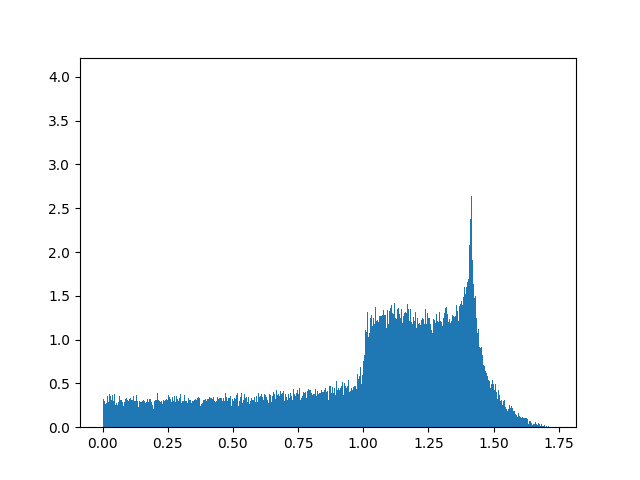
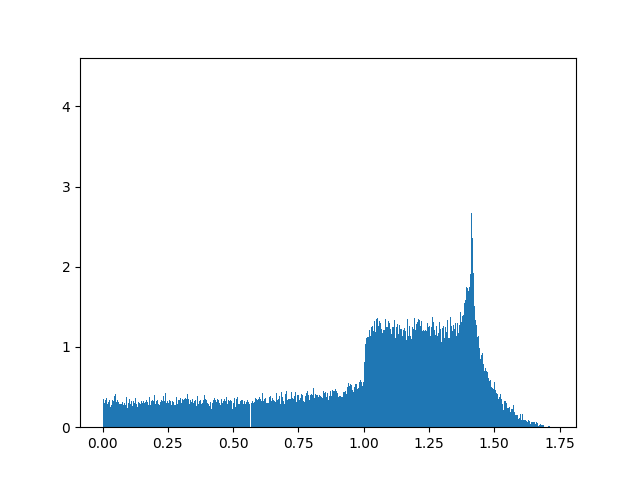
clean 4 shapes polyhedrons, start of report

diff --git a/mesh.py b/mesh.py
@@ -44,11 +44,12 @@ class polyhedron:
         y = random.uniform(y_min, y_max)
         return y
     
-    def random_chord_length(self) :
+    def random_chord_length(self, y = None): 
         """
         Returns the length of a random chord of the polyhedron
         """
-        y = self.random_y()
+        if y is None:
+            y = self.random_y()
         
         over_y = []
         under_y = []
@@ -69,19 +70,24 @@ class polyhedron:
 
         return max(intersections_x) - min(intersections_x)
     
-    def plot_proj(self, name) :
+    def plot_proj(self, name, chord_y = None) :
         """
         plots the projected points in MeshPlots/projections/name
 
         Args :
         name : name of the file
+        chord_y : y coordinate of the chord to plot. If None, no chord is plotted
         """
         plt.figure()
         plt.plot(*zip(*self.projected_vertices), 'o')
-        for i in range(4):
-            for j in range(i+1,4):
+        n = len(self.projected_vertices)
+        for i in range(n):
+            for j in range(i+1,n):
                 plt.plot(*zip(self.projected_vertices[i],self.projected_vertices[j]), color='b')
+        if chord_y is not None :
+            plt.axhline(y=chord_y, color='r')
         plt.savefig("MeshPlots/projections/"+name)
+        plt.close()
 
     def plot_3d(self, name) :
         """
@@ -92,11 +98,13 @@ class polyhedron:
         """
         fig = plt.figure()
         ax = fig.add_subplot(111, projection='3d')
-        for i in range(4):
-            for j in range(i+1,4):
+        n = len(self.vertices)
+        for i in range(n):
+            for j in range(i+1,n):
                 ax.plot(*zip(self.vertices[i],self.vertices[j]), color='b')
         ax.scatter(*zip(*self.vertices))
         plt.savefig("MeshPlots/3D/"+name)
+        plt.close()
     
 class regular_tetrahedron(polyhedron) :
     """
@@ -111,7 +119,7 @@ class regular_tetrahedron(polyhedron) :
         self.H = r*np.sqrt(6)/3 #height of the tetrahedron
         self.b = r/(2*np.sqrt(3)) #distance from the center to the center of a face
         self.a = r/np.sqrt(3) #distance from the center to a vertex
-        self.vertices = np.array([(-1/2,-self.b,0), (1/2,-self.b,0), (0,self.a,0), (0,0,self.H)])
+        self.vertices = np.array([(-self.r/2,-self.b,0), (self.r/2,-self.b,0), (0,self.a,0), (0,0,self.H)])
         self.projected_vertices = np.array(self.vertices[:,:2])
 
     def check_edges_length(self):
@@ -131,8 +139,37 @@ class cube(polyhedron) :
     """
     def __init__(self, r = 1):
         self.r = r
-        self.vertices = np.array([(x,y,z) for x in [-1/2,1/2] for y in [-1/2,1/2] for z in [-1/2,1/2]])
+        self.vertices = r*np.array([(x,y,z) for x in [-1/2,1/2] for y in [-1/2,1/2] for z in [-1/2,1/2]])
         self.projected_vertices = np.array([(x,y) for x,y,z in self.vertices])
+
+class regular_pyramid(polyhedron) :
+    """
+    An element of this class represents a regular pyramid (base = square, summit above the center of the square, all edges of the same length), using the polyhedron class.
+
+    Args :
+    r : length of the edges of the pyramid
+    """
+    def __init__(self, r = 1):
+        self.r = r
+        self.h = r*np.sqrt(2)/2 #height of the pyramid
+        self.normalized_h = np.sqrt(2)/2 #height of the pyramid, with r = 1
+        self.vertices = r*np.array([(-1/2,-1/2,0), (1/2,-1/2,0), (1/2,1/2,0), (-1/2,1/2,0), (0,0,self.normalized_h)])
+        self.projected_vertices = np.array(self.vertices[:,:2])
+
+class regular_triangular_prism(polyhedron) :
+    """
+    An element of this class represents a regular triangular prism (equilateral triangle base, all edges of the same length) (basically, a tent), using the polyhedron class.
+
+    Args :
+    r : length of the edges of the prism
+    """
+    def __init__(self, r = 1):
+        self.r = r
+        self.h = r*np.sqrt(3)/2 #height of the prism
+        self.normalized_h = np.sqrt(3)/2 #height of the prism, with r = 1
+        self.vertices = r*np.array([(-1/2,-1/2,0), (1/2,-1/2,0), (1/2,1/2,0), (-1/2,1/2,0), (-1/2,0,self.normalized_h), (1/2,0,self.normalized_h)])
+        self.projected_vertices = np.array(self.vertices[:,:2])
+
 
 def random_uniform_rotation_matrix() :
     return Rotation.random().as_matrix()
@@ -148,6 +185,7 @@ def plot_cumulative_cld_hist(chords, name, bins=100) :
     plt.figure()
     plt.hist(chords, bins=bins, cumulative=True, density=True, histtype='step')
     plt.savefig("MeshPlots/clds/"+name)
+    plt.close()
 
 def plot_cld_hist(chords, name, bins=100) :
     """
@@ -159,6 +197,7 @@ def plot_cld_hist(chords, name, bins=100) :
     plt.figure()
     plt.hist(chords, bins=bins, density=True)
     plt.savefig("MeshPlots/clds/"+name)
+    plt.close()
 
 def get_regular_tetrahedron_list_of_chords(r = 1, N = 10000) :
     """
@@ -192,15 +231,63 @@ def get_cube_list_of_chords(r = 1, N = 10000) :
         list_of_chords.append(cube_.random_chord_length())
     return list_of_chords
 
-def get_tetrahedron_cld() :
-    chords = get_regular_tetrahedron_list_of_chords(N = 524288)
-    plot_cld_hist(chords, 'cld_tetra', bins=4096)
-    plot_cumulative_cld_hist(chords,'cumulative_cld_tetra', bins=4096)
+def get_regular_pyramid_list_of_chords(r = 1, N = 10000) :
+    """
+    Returns the list of N chord lengths of a regular pyramid with edges of length r
 
-def get_cube_cld() :
-    chords = get_cube_list_of_chords(N = 524288)
-    plot_cld_hist(chords, 'cld_cube', bins=4096)
-    plot_cumulative_cld_hist(chords,'cumulative_cld_cube', bins=4096)
+    Args :
+    r : length of the edges of the pyramid
+    N : number of chords
+    """
+    pyramid = regular_pyramid(r)
+    list_of_chords = []
+    for i in range(N) :
+        Gamma = random_uniform_rotation_matrix()
+        pyramid.rotate(Gamma)
+        list_of_chords.append(pyramid.random_chord_length())
+    return list_of_chords
+
+def get_regular_triangular_prism_list_of_chords(r = 1, N = 10000) :
+    """
+    Returns the list of N chord lengths of a regular triangular prism with edges of length r
+
+    Args :
+    r : length of the edges of the prism
+    N : number of chords
+    """
+    prism = regular_triangular_prism(r)
+    list_of_chords = []
+    for i in range(N) :
+        Gamma = random_uniform_rotation_matrix()
+        prism.rotate(Gamma)
+        list_of_chords.append(prism.random_chord_length())
+    return list_of_chords
+
+def get_tetrahedron_cld(N = 524288, bins=4096) :
+    chords = get_regular_tetrahedron_list_of_chords(N = N)
+    plot_cld_hist(chords, 'cld_tetra', bins=bins)
+    plot_cumulative_cld_hist(chords,'cumulative_cld_tetra', bins=bins)
+
+def get_cube_cld(N = 524288, bins=4096) :
+    chords = get_cube_list_of_chords(N = N)
+    plot_cld_hist(chords, 'cld_cube', bins=bins)
+    plot_cumulative_cld_hist(chords,'cumulative_cld_cube', bins=bins)
+
+def get_pyramid_cld(N = 524288, bins=4096) :
+    chords = get_regular_pyramid_list_of_chords(N = N)
+    plot_cld_hist(chords, 'cld_pyramid', bins=bins)
+    plot_cumulative_cld_hist(chords,'cumulative_cld_pyramid', bins=bins)
+
+def get_prism_cld(N = 524288, bins=4096) :
+    chords = get_regular_triangular_prism_list_of_chords(N = N)
+    plot_cld_hist(chords, 'cld_prism', bins=bins)
+    plot_cumulative_cld_hist(chords,'cumulative_cld_prism', bins=bins)
+
+def get_all_cld(N = 524288, bins=4096) :
+    get_tetrahedron_cld(N = N, bins=bins)
+    get_cube_cld(N = N, bins=bins)
+    get_pyramid_cld(N = N, bins=bins)
+    get_prism_cld(N = N, bins=bins)
 
 def plot_sample_tetrahedrons() :
     zone1 = []
@@ -209,18 +296,48 @@ def plot_sample_tetrahedrons() :
         tetrahedron = regular_tetrahedron()
         Gamma = random_uniform_rotation_matrix()
         tetrahedron.rotate(Gamma)
-        chord_length = tetrahedron.random_chord_length()
+        y = tetrahedron.random_y()
+        chord_length = tetrahedron.random_chord_length(y)
         if chord_length < 0.5 :
-            zone1.append(tetrahedron)
+            zone1.append((tetrahedron, y))
         if chord_length > 0.8 :
-            zone2.append(tetrahedron)
+            zone2.append((tetrahedron, y))
     
-    for i,tetra in enumerate(zone1) :
-        tetra.plot_proj('tetra_zone1_'+str(i))
+    for i,(tetra,y) in enumerate(zone1) :
+        tetra.plot_proj('tetra_zone1_'+str(i), y)
         tetra.plot_3d('tetra_zone1_'+str(i))
 
-    for i,tetra in enumerate(zone2) :
-        tetra.plot_proj('tetra_zone2_'+str(i))
+    for i,(tetra,y) in enumerate(zone2) :
+        tetra.plot_proj('tetra_zone2_'+str(i), y)
         tetra.plot_3d('tetra_zone2_'+str(i))
 
-plot_sample_tetrahedrons()
+def plot_sample_cubes() :
+    zone1 = []
+    zone2 = []
+    zone3 = []
+    for i in range(300) :
+        cube_ = cube()
+        Gamma = random_uniform_rotation_matrix()
+        cube_.rotate(Gamma)
+        y = cube_.random_y()
+        chord_length = cube_.random_chord_length(y)
+        if chord_length < 0.8 :
+            zone1.append((cube_, y))
+        if (chord_length > 1.1) and (chord_length < 1.3) :
+            zone2.append((cube_, y))
+        if chord_length > 1.5 :
+            zone3.append((cube_, y))
+    
+    for i,(cube_,y) in enumerate(zone1) :
+        cube_.plot_proj('cube_zone1_'+str(i), y)
+        cube_.plot_3d('cube_zone1_'+str(i))
+
+    for i,(cube_,y) in enumerate(zone2) :
+        cube_.plot_proj('cube_zone2_'+str(i), y)
+        cube_.plot_3d('cube_zone2_'+str(i))
+
+    for i,(cube_,y) in enumerate(zone3) :
+        cube_.plot_proj('cube_zone3_'+str(i), y)
+        cube_.plot_3d('cube_zone3_'+str(i))
+
+get_all_cld(N = 1048576, bins=8192)

diff --git a/report.tex b/report.tex
@@ -1,0 +1,5 @@
+\subsection{Step 3 : Assuming polyhedron particle}
+
+For now we studied 4 shapes : regular tetrahedron, cube, regular pyramid and regular triangular prism :
+
+\includegraphics[width=0.8\textwidth]{Images/p_shapes.png}
